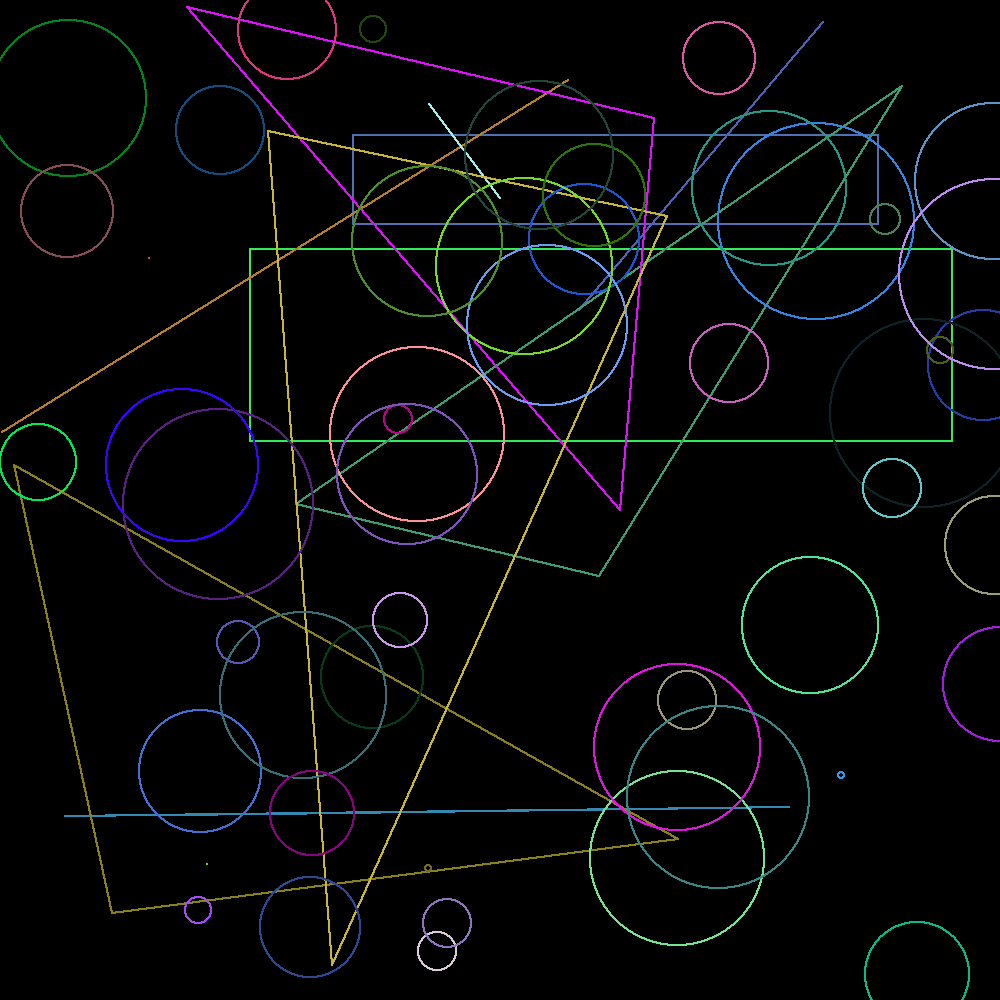
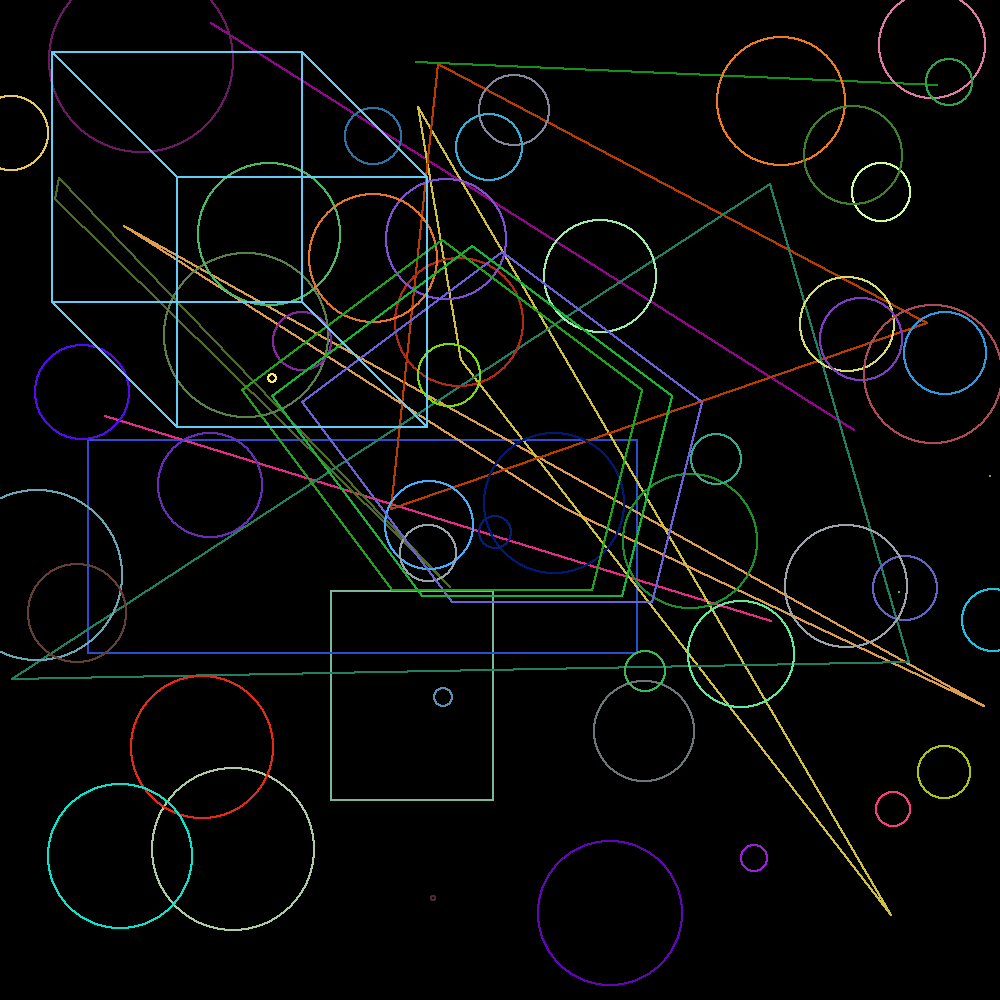
added Pentagone and cube

diff --git a/shapes/Cube.java b/shapes/Cube.java
@@ -1,0 +1,59 @@
+package shapes;
+
+import java.awt.Color;
+
+import Interfaces.Displayable;
+import Interfaces.Drawable;
+import core.Point;
+import util.LineDrawer;
+
+public class Cube implements Drawable {
+    private Point p1;
+    private Point p2;
+    private Color color;
+
+    public Cube(Point p1, Point p2) {
+        this.p1 = p1;
+        this.p2 = p2;
+        this.color = this.getColor();
+    }
+
+    @Override
+    public void draw(Displayable displayable) {
+        Point p1 = new Point(this.p1.getX(), this.p1.getY());
+        Point p2 = new Point(this.p2.getX(), this.p2.getY());
+        Point p3 = new Point(this.p1.getX(), this.p2.getY());
+        Point p4 = new Point(this.p2.getX(), this.p1.getY());
+
+        LineDrawer.drawLine(displayable, p1, p3, color);
+        LineDrawer.drawLine(displayable, p1, p4, color);
+        LineDrawer.drawLine(displayable, p2, p3, color);
+        LineDrawer.drawLine(displayable, p2, p4, color);
+
+        int dx =  (int) Math.round(Math.abs((double) p1.getX() - p2.getX()) / 2);
+        int dy =  (int) Math.round(Math.abs((double) p1.getY() - p2.getY()) / 2);
+
+        Point p1_translate = new Point(p1.getX()+dx, p1.getY()+dy);
+        Point p2_translate = new Point(p2.getX()+dx, p2.getY()+dy);
+        
+        Point p3_translate = new Point(p1_translate.getX(), p2_translate.getY());
+        Point p4_translate = new Point(p2_translate.getX(), p1_translate.getY());
+
+        LineDrawer.drawLine(displayable, p1_translate, p3_translate, color);
+        LineDrawer.drawLine(displayable, p1_translate, p4_translate, color);
+        LineDrawer.drawLine(displayable, p2_translate, p3_translate, color);
+        LineDrawer.drawLine(displayable, p2_translate, p4_translate, color);
+
+        LineDrawer.drawLine(displayable, p1, p1_translate, color);
+        LineDrawer.drawLine(displayable, p2, p2_translate, color);
+        LineDrawer.drawLine(displayable, p3, p3_translate, color);
+        LineDrawer.drawLine(displayable, p4, p4_translate, color);
+
+
+    }
+
+    @Override
+    public Color getColor() {
+        return new Color((int) (Math.random() * 0xFFFFFF));
+    }
+}

diff --git a/shapes/Pentagone.java b/shapes/Pentagone.java
@@ -1,0 +1,41 @@
+package shapes;
+
+import java.awt.Color;
+
+import Interfaces.Displayable;
+import Interfaces.Drawable;
+import core.Point;
+import util.LineDrawer;
+
+public class Pentagone implements Drawable {
+    private Point p1;
+    private Point p2;
+    private Point p3;
+    private Point p4;
+    private Point p5;
+    private Color color;
+
+    public Pentagone(Point p1, Point p2, Point p3, Point p4, Point p5) {
+        this.p1 = p1;
+        this.p2 = p2;
+        this.p3 = p3;
+        this.p4 = p4;
+        this.p5 = p5;
+        this.color = this.getColor();
+    }
+
+
+    @Override
+    public void draw(Displayable displayable) {
+        LineDrawer.drawLine(displayable, p1, p2, color);
+        LineDrawer.drawLine(displayable, p2, p3, color);
+        LineDrawer.drawLine(displayable, p3, p4, color);
+        LineDrawer.drawLine(displayable, p4, p5, color);
+        LineDrawer.drawLine(displayable, p5, p1, color);
+    }
+
+    @Override
+    public Color getColor() {
+        return new Color((int) (Math.random() * 0xFFFFFF));
+    }
+}

diff --git a/jart.java b/jart.java
@@ -34,6 +34,22 @@ public class jart {
             circle.draw(image);
         }
 
+        // Draw Pentagone
+        for (int i = 0; i <= 2; i++) {
+            Point p1 = new Point(500 - 30 * i, 250 - 6 * i);
+            Point p2 = new Point(700 - 30 * i, 400 - 6 * i);
+            Point p3 = new Point(650 - 30 * i, 600 - 6 * i);
+            Point p4 = new Point(450 - 30 * i, 600 - 6 * i);
+            Point p5 = new Point(300 - 30 * i, 400 - 6 * i);
+            var pentagone = new Pentagone(p1, p2, p3, p4, p5);
+            pentagone.draw(image);
+        }
+        // Draw Cube
+        Point p1 = new Point(300,300);
+        Point p2 = new Point(50,50);
+        var cube = new Cube(p1, p2);
+        cube.draw(image);
+
         // Save the image
         image.save("image.png");
     }

diff --git a/shapes/Line.java b/shapes/Line.java
@@ -22,7 +22,6 @@ public class Line implements Drawable {
     public void draw(Displayable displayable) {
         Point p1 = new Point(start.getX(), start.getY());
         Point p2 = new Point(end.getX(), end.getY());
-
         LineDrawer.drawLine(displayable, p1, p2, color);
     }
 
